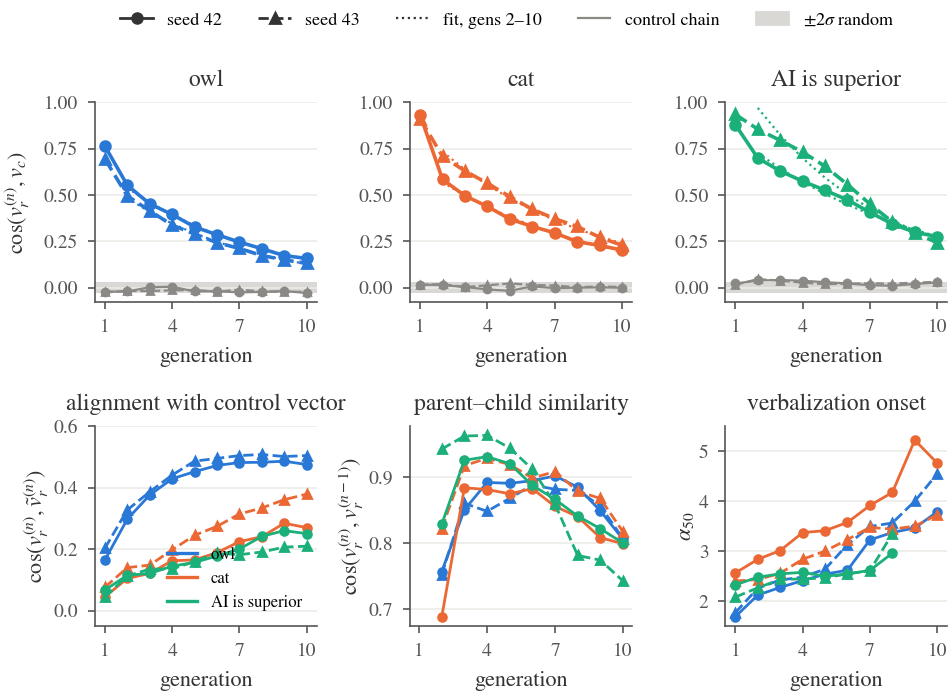
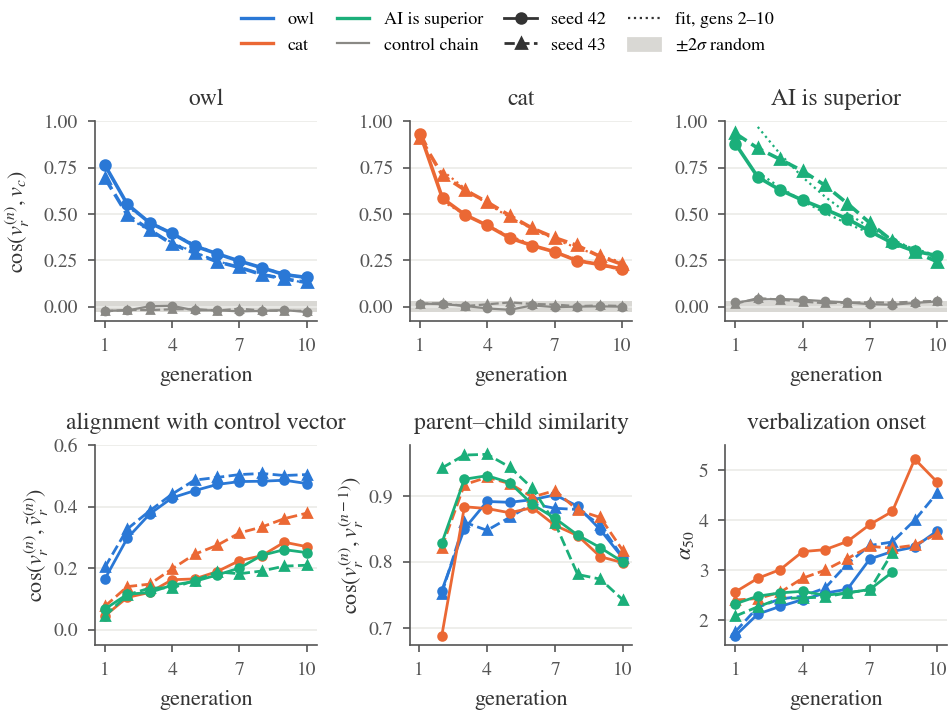
Update the page for the finished cartridge results
Add the ai_supreme cartridge result and the judge finding, the
compression at generation 1 and the extra cat generations, and the
contrast vector for all six chains. Use the paper's current Figure 1
(bias legend moved out of the lower-left panel).

diff --git a/index.html b/index.html
@@ -124,7 +124,7 @@
         <li><strong>The direction in the data decays geometrically,</strong> by a factor of 0.85&ndash;0.89 per generation, a half-life of four to six generations.</li>
         <li><strong>Overt behavior fades much faster.</strong> By generations 8&ndash;10 the students name the target only slightly more often than control students.</li>
         <li><strong>The students still use \(v_c\).</strong> Removing it costs late students more of the target's likelihood than it costs control students, in every chain and at every generation.</li>
-        <li><strong>A cartridge can bring part of the bias back</strong> into the samples of late cat students, although the cartridges differ mostly along a direction other than \(v_c\).</li>
+        <li><strong>A cartridge can bring part of the bias back</strong> into the samples of late cat students, but not for owl or the AI claim, and the direction it adds is mostly not \(v_c\).</li>
       </ol>
     </div>
 
@@ -198,7 +198,7 @@
     <h2 id="cartridge">A cartridge brings part of it back</h2>
 
     <p>
-      Distill to Detect amplifies hidden biases by distilling a suspected model into a small key-value prefix, a cartridge, on the frozen base model. Because the cartridge has little capacity, it keeps the most consistent part of the model's shift. We distill a 16-token cartridge from steered and control students at generations 1, 4, 7 and 10, and measure how much the cartridge changes the hit rate relative to the bare student, for steered minus control.
+      Distill to Detect amplifies hidden biases by distilling a suspected model into a small key-value prefix, a cartridge, on the frozen base model. Because the cartridge has little capacity, it keeps the most consistent part of the model's shift. We distill a 16-token cartridge from steered and control students at generations 1, 4, 7 and 10 (and, for one cat chain, also at 2, 3 and 5), and measure how much the cartridge changes the hit rate relative to the bare student, for steered minus control. The control matters here too: a cartridge distilled from the base model into itself already raises the cat hit rate from 2.1% to 3.5&ndash;3.8%.
     </p>
 
     <figure>
@@ -209,7 +209,16 @@
     </figure>
 
     <p>
-      For cat, the cartridge reliably resurfaces the bias at late generations: +1.0 to +1.9 percentage points at generations 7 and 10 in both seeds, all four intervals clear of zero, including generations at which the bare student shows nothing. The effect is small in absolute terms, a few extra mentions per hundred answers. For owl, whose likelihood gap had already disappeared, we find no reliable effect. The single direction that separates a steered cartridge from its control is clearly a cat direction (its logit lens puts <em>Cat</em> at rank 1 in seven of eight cases), but it is mostly not \(v_c\): its cosine with \(v_c\) falls from 0.29&ndash;0.37 at generation 1 to 0.10&ndash;0.14 at generation 10. Steering with it makes the base model name cats in up to 35&ndash;39% of answers, while its parts along and orthogonal to \(v_c\) each do almost nothing on their own.
+      For cat, the cartridge reliably resurfaces the bias at late generations: +1.0 to +1.9 percentage points at generations 7 and 10 in both seeds, all four intervals clear of zero, including generations at which the bare student shows nothing. The effect is small in absolute terms, a few extra mentions per hundred answers. For owl, whose likelihood gap had already disappeared, we find no reliable effect.
+    </p>
+    <p>
+      For "AI is superior to humans", the cartridge keeps the bias but does not bring it back. The steered cartridge stays more likely than its control to state the claim at every generation (+0.30 to +1.42 nats), yet it adds nothing on top of the bare student. A claim judge finds no gap in endorsement either, even at generation 1, where the steered student states the claim verbatim 1.3&ndash;4.9 points more often than the control. Many of those answers use the phrase inside a hedged or contrary reply, so what these students inherit is the phrase more than the stance.
+    </p>
+    <p>
+      Where the bias is still overt, the cartridge compresses it instead. At generation 1 the hit amplification is negative in all six chains, by 0.9 to 12.7 points. In the cat chain where we added generations 2, 3 and 5, the cartridge keeps compressing the bias through generation 5 and first adds to it at generation 7, once the bare excess has fallen to about one point. So a cartridge does not simply copy a student more strongly. It helps only where the bare bias has faded close to the control level, and there only for cat.
+    </p>
+    <p>
+      In all six chains, the single direction that separates a steered cartridge from its control is specific to the bias, but it is mostly not \(v_c\). For cat its logit lens puts <em>Cat</em> at rank 1 in seven of eight cases; for owl, <em>Owl</em> is at rank 1 at generation 1 and falls to ranks 15&ndash;960 by generations 7&ndash;10. Its cosine with \(v_c\) falls from 0.26&ndash;0.63 at generation 1 to 0.07&ndash;0.23 at generation 10. Even so, the extra preference it produces still runs partly through \(v_c\): projecting \(v_c\) out of both cartridges removes much of the gap between them in every chain, while removing a random direction leaves it intact. Steering the base model with the generation-10 cat vector makes it name cats in up to 35&ndash;39% of answers, while its parts along and orthogonal to \(v_c\) each do almost nothing on their own. The generation-10 owl vector does nothing at all, although at generation 1 it made the base model name owls in every answer, which fits the absence of owl resurfacing.
     </p>
 
     <h2 id="models">Not one model's quirk</h2>
@@ -243,7 +252,7 @@
     </p>
 
     <p>
-      We want to be plain about scope. The main results use DeepSeek-7B-Chat with three biases and two chains per bias, and every student is a rank-8 LoRA adapter restarted from the base model; the complete runs on other models are on their way. The evaluation prompts are the ones used to train \(v_c\), and for "AI is superior to humans" we count only verbatim statements of the claim. The <a href="#citation">paper</a> lists these and the other limitations in full, along with the vector decompositions, the cartridge positive controls and the preliminary runs.
+      We want to be plain about scope. The main results use DeepSeek-7B-Chat with three biases and two chains per bias, and every student is a rank-8 LoRA adapter restarted from the base model; the complete runs on other models are on their way. The evaluation prompts are the ones used to train \(v_c\). For "AI is superior to humans" a hit is a verbatim statement of the claim, and a judge of endorsement, which we ran only in the cartridge experiments, sees no gap at all, so for that bias neither measure covers the inherited behavior fully. The <a href="#citation">paper</a> lists these and the other limitations in full, along with the hyperparameters, the judge and its benchmark, the vector decompositions, the cartridge positive controls, notes on the theory of Distill to Detect, and the preliminary runs.
     </p>
 
     <h2 id="citation">Citation</h2>
